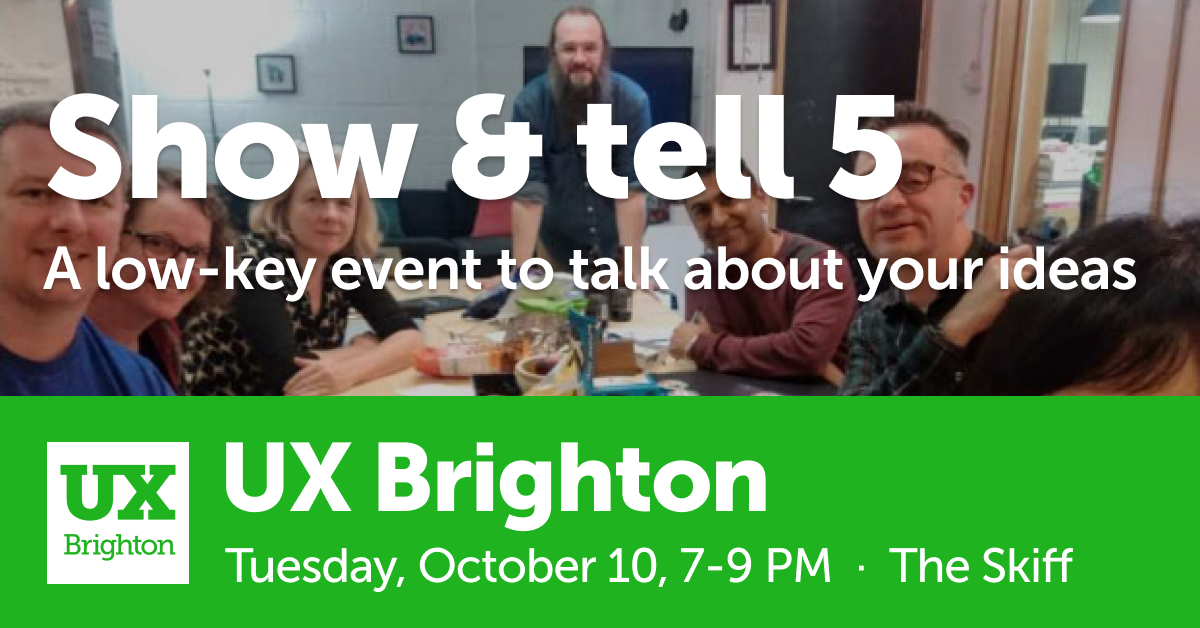
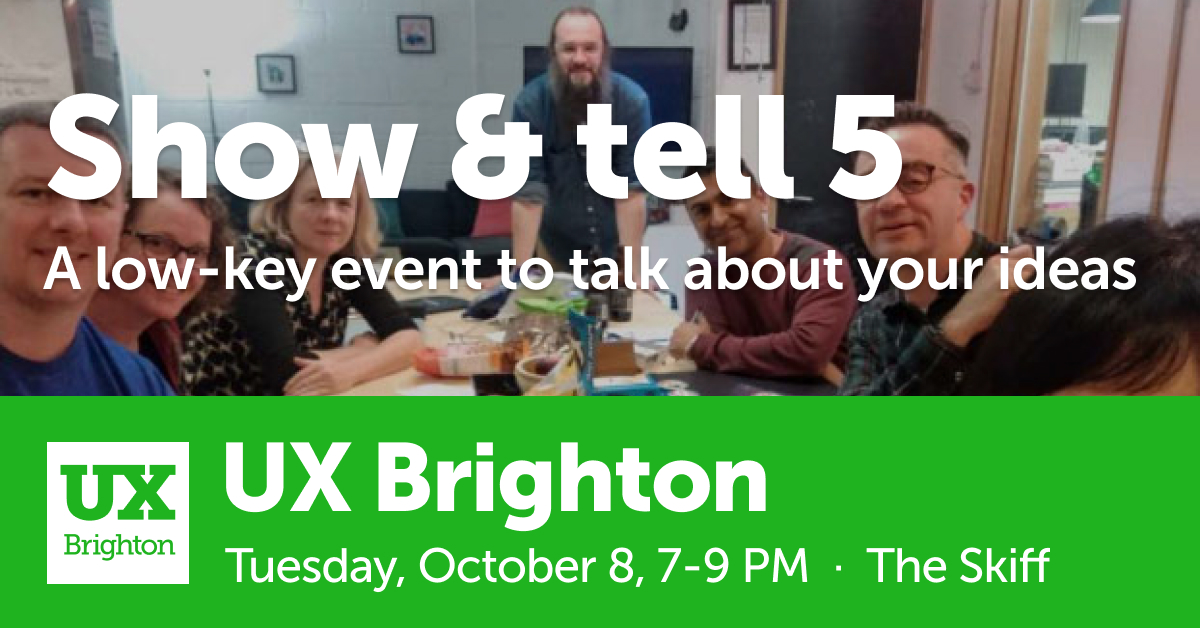
dates

Changed region(s): [[0.4933, 0.8471, 0.8942, 0.9379]]

diff --git a/_posts/2019-10-07-show-&-tell-5.md b/_posts/2019-10-07-show-&-tell-5.md
@@ -17,7 +17,7 @@ upcoming-bg-image: "/images/events/show-and-tell.jpg"
 ---
 ## UX Brighton show & tell 5
 
-Tuesday, October 7th, 7-9 PM · [The Skiff 30 Cheapside Brighton BN1 4GD](https://www.google.com/maps/place/The+Skiff/@50.829334,-0.138472,15z/data=!4m5!3m4!1s0x0:0xa82eae645ae91b0f!8m2!3d50.829334!4d-0.138472?shorturl=1)
+Tuesday, October 8th, 7-9 PM · [The Skiff 30 Cheapside Brighton BN1 4GD](https://www.google.com/maps/place/The+Skiff/@50.829334,-0.138472,15z/data=!4m5!3m4!1s0x0:0xa82eae645ae91b0f!8m2!3d50.829334!4d-0.138472?shorturl=1)
 The idea is that this is a low-key event – small enough that everybody in the room can know each other’s names. A safe environment for talking about unfinished ideas etc.
 
 If you’re new to UX, so much the better – a mix of skill/experience levels will enrich the conversation. If you’re stuck for what to show, bring a question.
